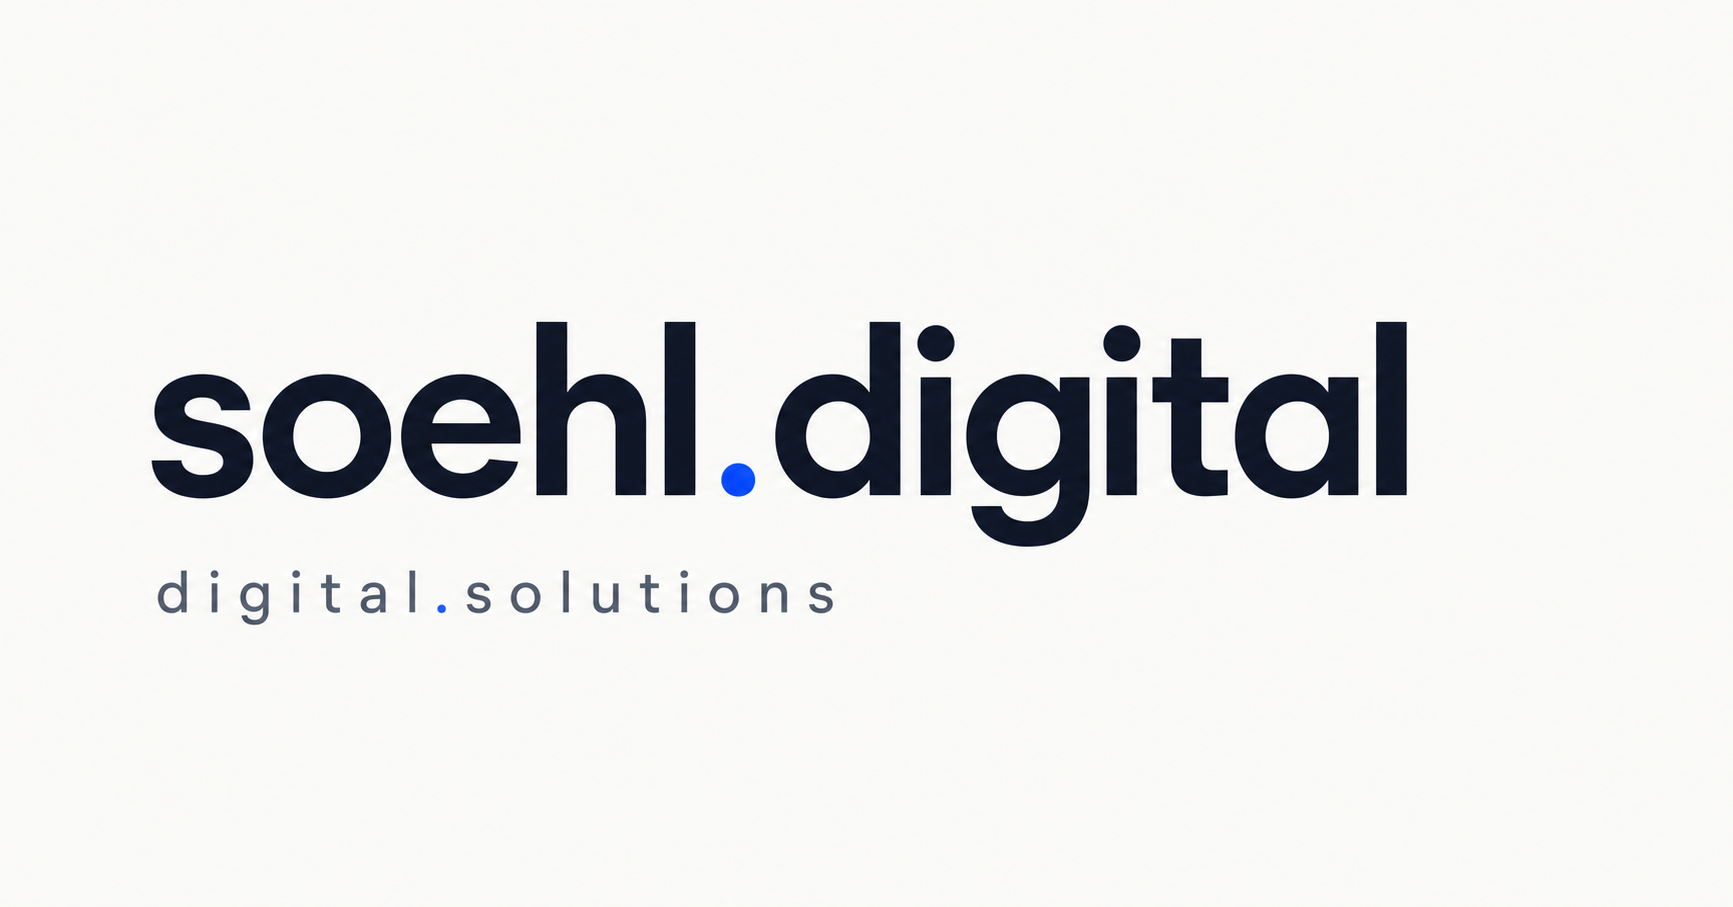
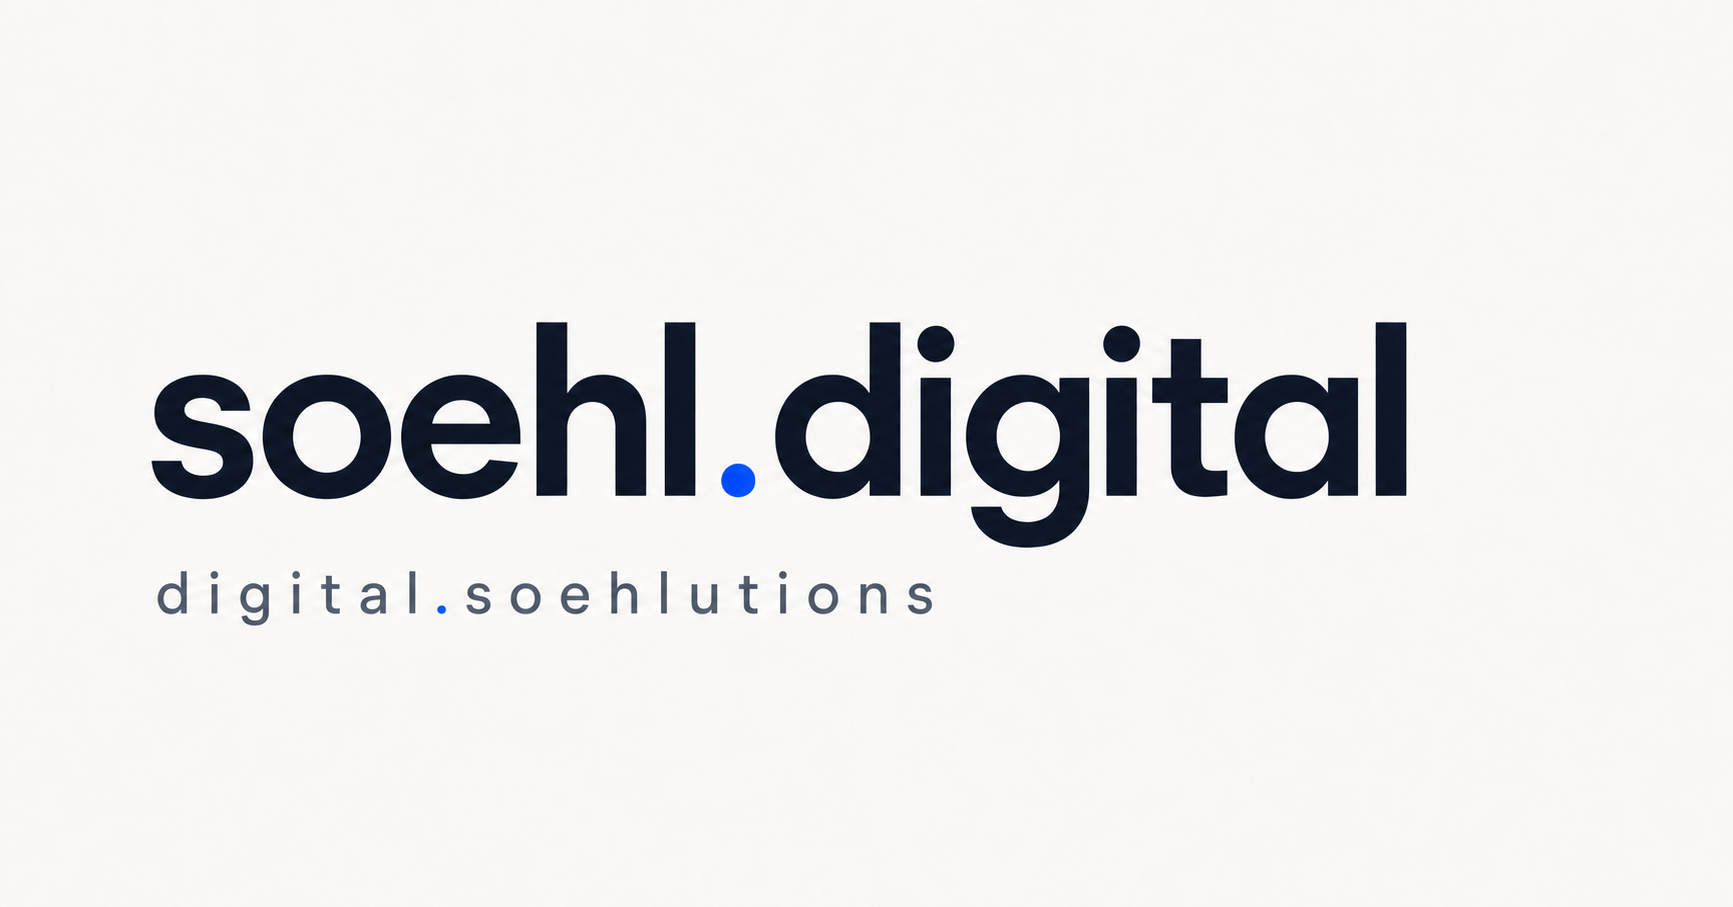
-

diff --git a/index.html b/index.html
@@ -3,8 +3,8 @@
 <head>
   <meta charset="utf-8">
   <meta name="viewport" content="width=device-width, initial-scale=1">
-  <title>soehl.digital – digital.solutions</title>
-  <meta name="description" content="soehl.digital – digital.solutions. Kontakt per E-Mail.">
+  <title>soehl.digital – digital.soehlutions</title>
+  <meta name="description" content="soehl.digital – digital.soehlutions. Kontakt per E-Mail.">
   <meta name="robots" content="index,follow">
   <meta name="theme-color" content="#f6f7f4">
   <link rel="canonical" href="https://soehl.digital/">
@@ -13,21 +13,21 @@
   <meta property="og:type" content="website">
   <meta property="og:site_name" content="soehl.digital">
   <meta property="og:url" content="https://soehl.digital/">
-  <meta property="og:title" content="soehl.digital – digital.solutions">
-  <meta property="og:description" content="soehl.digital – digital.solutions. Kontakt per E-Mail.">
+  <meta property="og:title" content="soehl.digital – digital.soehlutions">
+  <meta property="og:description" content="soehl.digital – digital.soehlutions. Kontakt per E-Mail.">
   <meta property="og:image" content="https://soehl.digital/og.png">
-  <meta property="og:image:alt" content="soehl.digital – digital.solutions">
+  <meta property="og:image:alt" content="soehl.digital – digital.soehlutions">
   <meta property="og:locale" content="de_DE">
   <meta name="twitter:card" content="summary_large_image">
-  <meta name="twitter:title" content="soehl.digital – digital.solutions">
-  <meta name="twitter:description" content="soehl.digital – digital.solutions. Kontakt per E-Mail.">
+  <meta name="twitter:title" content="soehl.digital – digital.soehlutions">
+  <meta name="twitter:description" content="soehl.digital – digital.soehlutions. Kontakt per E-Mail.">
   <meta name="twitter:image" content="https://soehl.digital/og.png">
 </head>
 <body class="home">
   <main class="intro" aria-labelledby="brand">
     <div class="wordmark">
       <h1 id="brand" class="brand-name" aria-label="soehl.digital"><span aria-hidden="true">soehl<span class="dot">.</span>digital</span></h1>
-      <p class="claim" aria-label="digital.solutions"><span aria-hidden="true">digital<span class="dot">.</span>solutions</span></p>
+      <p class="claim" aria-label="digital.soehlutions"><span aria-hidden="true">digital<span class="dot">.</span>soehlutions</span></p>
     </div>
     <a class="contact-link" href="mailto:kontakt@soehl.digital">kontakt@soehl.digital</a>
   </main>
